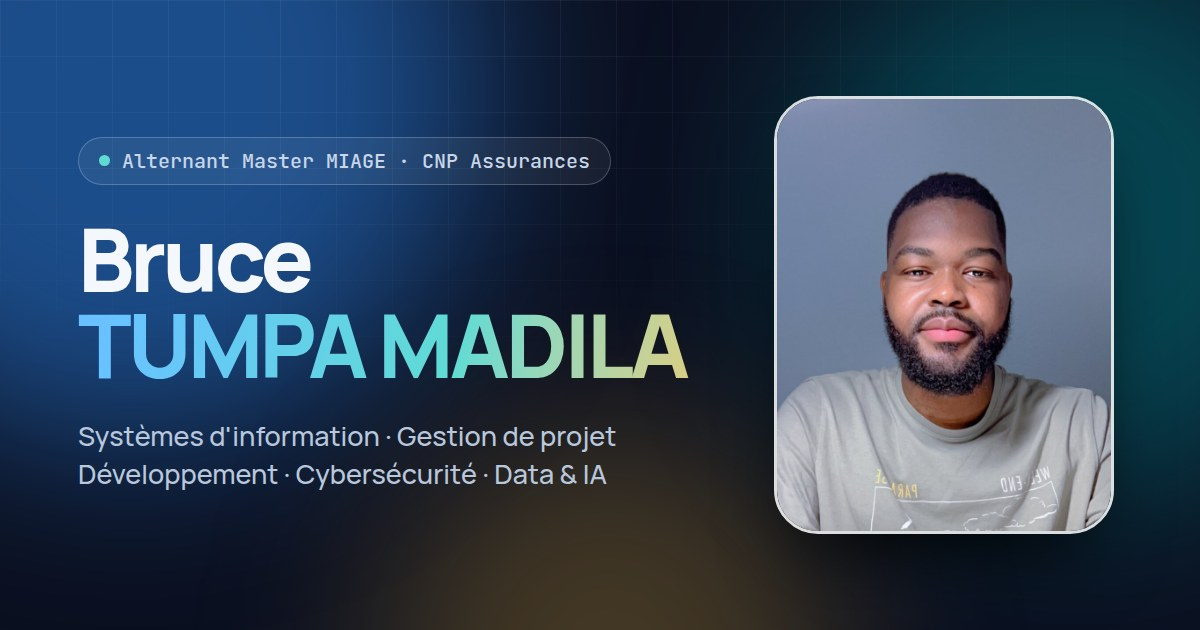
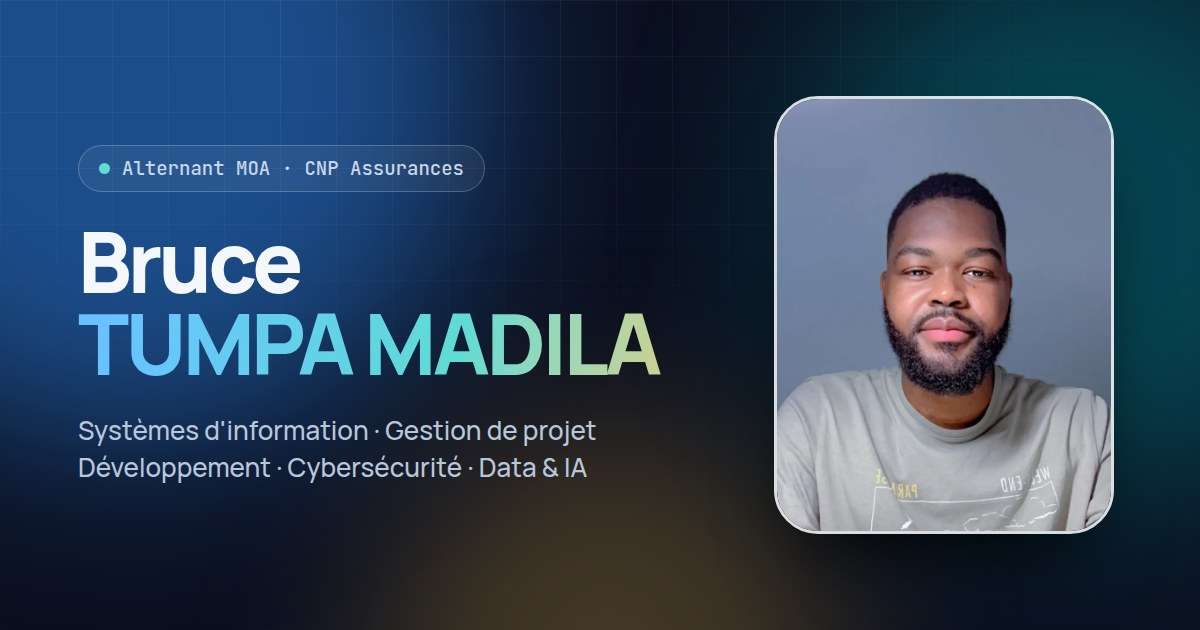
Corrections : poste MOA, lieux de contact
- Le poste chez CNP Assurances est « Alternant MOA (Maîtrise d'ouvrage) »
  et non « Alternant Master MIAGE » (qui reste la formation suivie, affichée
  séparément dans les repères et le parcours).
  Mis à jour : badge du hero, meta SEO/OG/Twitter, JSON-LD, image Open Graph.
- Contact : lieux limités à Garges-lès-Gonesse (95) et Mulhouse (68),
  retrait de Schiltigheim et « Île-de-France ».

diff --git a/index.html b/index.html
@@ -4,7 +4,7 @@
   <meta charset="UTF-8" />
   <meta name="viewport" content="width=device-width, initial-scale=1.0" />
   <title>Bruce TUMPA MADILA | Portfolio</title>
-  <meta name="description" content="Portfolio de Bruce TUMPA MADILA, alternant Master MIAGE (Université de Haute-Alsace) chez CNP Assurances. Systèmes d'information, gestion de projet, développement logiciel, cybersécurité, réseaux, data & IA." />
+  <meta name="description" content="Portfolio de Bruce TUMPA MADILA, alternant MOA (Maîtrise d'ouvrage) chez CNP Assurances, Master MIAGE à l'Université de Haute-Alsace. Systèmes d'information, gestion de projet, développement logiciel, cybersécurité, réseaux, data & IA." />
   <meta name="author" content="Bruce TUMPA MADILA" />
   <meta name="theme-color" content="#0d1220" media="(prefers-color-scheme: dark)" />
   <meta name="theme-color" content="#f6f8fc" media="(prefers-color-scheme: light)" />
@@ -13,7 +13,7 @@
   <meta property="og:type" content="website" />
   <meta property="og:url" content="https://epsi12-lab.github.io/Portofolio/" />
   <meta property="og:title" content="Bruce TUMPA MADILA | Portfolio" />
-  <meta property="og:description" content="Alternant Master MIAGE (Université de Haute-Alsace) chez CNP Assurances. Systèmes d'information, gestion de projet, développement, cybersécurité, data & IA." />
+  <meta property="og:description" content="Alternant MOA (Maîtrise d'ouvrage) chez CNP Assurances, Master MIAGE à l'Université de Haute-Alsace. Systèmes d'information, gestion de projet, développement, cybersécurité, data & IA." />
   <meta property="og:image" content="https://epsi12-lab.github.io/Portofolio/images/og-image.jpg" />
   <meta property="og:image:width" content="1200" />
   <meta property="og:image:height" content="630" />
@@ -21,7 +21,7 @@
   <meta property="og:locale:alternate" content="en_US" />
   <meta name="twitter:card" content="summary_large_image" />
   <meta name="twitter:title" content="Bruce TUMPA MADILA | Portfolio" />
-  <meta name="twitter:description" content="Alternant Master MIAGE (Université de Haute-Alsace) chez CNP Assurances. Systèmes d'information, gestion de projet, développement, cybersécurité, data & IA." />
+  <meta name="twitter:description" content="Alternant MOA (Maîtrise d'ouvrage) chez CNP Assurances, Master MIAGE à l'Université de Haute-Alsace. Systèmes d'information, gestion de projet, développement, cybersécurité, data & IA." />
   <meta name="twitter:image" content="https://epsi12-lab.github.io/Portofolio/images/og-image.jpg" />
 
   <link rel="icon" href="/favicon/favicon.ico" sizes="any" />
@@ -36,9 +36,9 @@
     "name": "Bruce TUMPA MADILA",
     "url": "https://epsi12-lab.github.io/Portofolio/",
     "image": "https://epsi12-lab.github.io/Portofolio/images/og-image.jpg",
-    "jobTitle": "Alternant Master MIAGE, pilotage et évolutions SI",
+    "jobTitle": "Alternant MOA (Maîtrise d'ouvrage), pilotage et évolutions SI",
     "worksFor": { "@type": "Organization", "name": "CNP Assurances" },
-    "description": "Alternant Master MIAGE à l'Université de Haute-Alsace au sein de CNP Assurances. Licence Informatique (Université de Strasbourg) et diplôme de niveau Bac+5 en Mathématiques, option Réseaux Informatiques (Université Pédagogique Nationale, R.D. Congo).",
+    "description": "Alternant MOA (Maîtrise d'ouvrage) chez CNP Assurances, Master MIAGE à l'Université de Haute-Alsace. Licence Informatique (Université de Strasbourg) et diplôme de niveau Bac+5 en Mathématiques, option Réseaux Informatiques (Université Pédagogique Nationale, R.D. Congo).",
     "knowsAbout": ["Systèmes d'information", "Gestion de projet", "Développement logiciel", "Cybersécurité", "Réseaux informatiques", "Data et intelligence artificielle"],
     "sameAs": [
       "https://www.linkedin.com/in/bruce-tumpa-madila-a4a184223",

diff --git a/src/content/ui.ts b/src/content/ui.ts
@@ -10,7 +10,7 @@ export const ui = {
   paletteOpen: l('Recherche rapide', 'Quick search'),
 
   hero: {
-    status: l('Alternant Master MIAGE · CNP Assurances', 'Work-study Master’s student (MIAGE) · CNP Assurances'),
+    status: l('Alternant MOA (Maîtrise d’ouvrage) · CNP Assurances', 'Work-study Business Analyst (MOA) · CNP Assurances'),
     lead: l(
       'Je fais le lien entre les besoins métier et les systèmes d’information, avec une base technique en réseaux, cybersécurité, développement et data.',
       'I bridge business needs and information systems, backed by a technical foundation in networks, cybersecurity, software development and data.',
@@ -98,7 +98,7 @@ export const ui = {
     success: l('Merci ! Votre message a bien été envoyé, je vous réponds rapidement.', 'Thank you! Your message was sent, I’ll get back to you shortly.'),
     error: l('L’envoi a échoué. Réessayez, ou contactez-moi via LinkedIn.', 'Sending failed. Please try again, or reach me on LinkedIn.'),
     another: l('Envoyer un autre message', 'Send another message'),
-    based: l('Schiltigheim (67) · Île-de-France · Mulhouse', 'Schiltigheim (France) · Île-de-France · Mulhouse'),
+    based: l('Garges-lès-Gonesse (95) · Mulhouse (68)', 'Garges-lès-Gonesse (France) · Mulhouse (France)'),
   },
 
   footer: {
